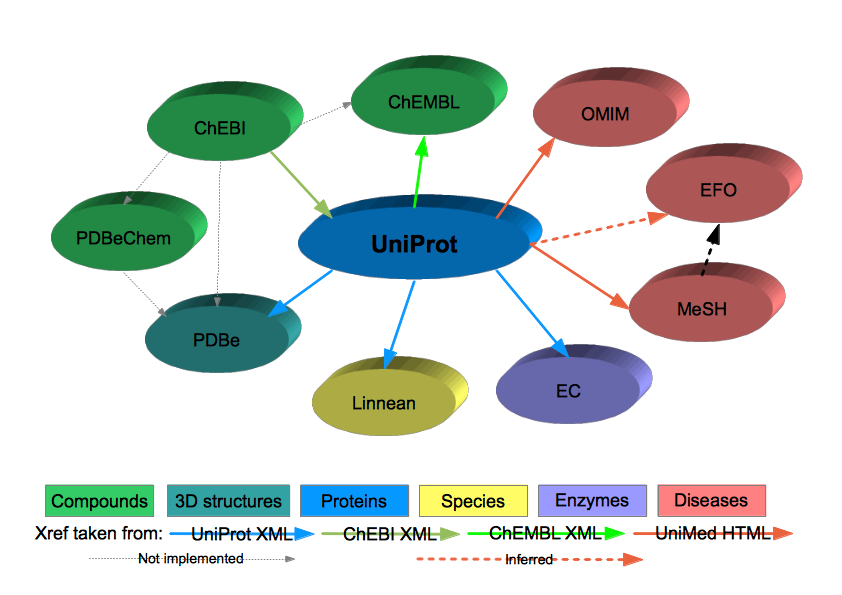
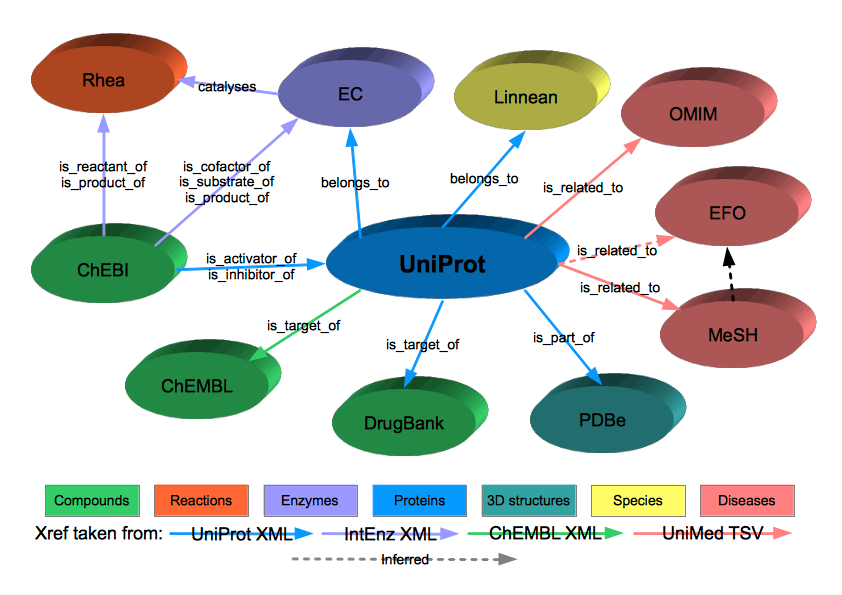
All subclasses of MegaMapper implement now the new getCompounds method. Updated graphic with current cross-references in the mega-map.

diff --git a/enzyme-portal/mega-mapper/src/main/java/uk/ac/ebi/ep/mm/MegaLuceneMapper.java b/enzyme-portal/mega-mapper/src/main/java/uk/ac/ebi/ep/mm/MegaLuceneMapper.java
@@ -4,10 +4,9 @@ import java.io.File;
 import java.io.IOException;
 import java.sql.ResultSet;
 import java.util.Collection;
-import java.util.LinkedList;
-
 import java.util.List;
 import java.util.Map;
+
 import org.apache.log4j.Logger;
 import org.apache.lucene.analysis.standard.StandardAnalyzer;
 import org.apache.lucene.document.Document;
@@ -20,11 +19,12 @@ import org.apache.lucene.search.IndexSearcher;
 import org.apache.lucene.store.Directory;
 import org.apache.lucene.store.NIOFSDirectory;
 import org.apache.lucene.util.Version;
+import uk.ac.ebi.ep.search.model.Compound;
 
 /**
  * Mega-mapper writing/reading to/from a lucene index.
  * <br>
- * <b>Use {@link MegaDbMapper} if possible, as a Lucene index does store
+ * <b>Use {@link MegaJdbcMapper} if possible, as a Lucene index does store
  * information horizontally.</b>
  * @author rafa
  */
@@ -209,6 +209,10 @@ public class MegaLuceneMapper implements MegaMapper {
 	}
 
     public List<String> getAllUniProtAccessions(MmDatabase database) {
+        throw new UnsupportedOperationException("Not supported yet.");
+    }
+
+    public Collection<Compound> getCompounds(String uniprotId) {
         throw new UnsupportedOperationException("Not supported yet.");
     }
 

diff --git a/enzyme-portal/mega-mapper/src/test/java/uk/ac/ebi/ep/mm/DummyMegaMapper.java b/enzyme-portal/mega-mapper/src/test/java/uk/ac/ebi/ep/mm/DummyMegaMapper.java
@@ -7,6 +7,8 @@ import java.util.HashSet;
 import java.util.List;
 import java.util.Map;
 
+import uk.ac.ebi.ep.search.model.Compound;
+
 /**
  * A dummy implementation of MegaMapper which stores a few entries and xrefs in
  * memory, just for JUnit tests.
@@ -144,6 +146,11 @@ public class DummyMegaMapper implements MegaMapper {
     }
 
     public List<String> getAllUniProtAccessions(MmDatabase database) {
+        throw new UnsupportedOperationException(
+                "This is just a dummy implementation");
+    }
+
+    public Collection<Compound> getCompounds(String uniprotId) {
         throw new UnsupportedOperationException(
                 "This is just a dummy implementation");
     }

diff --git a/enzyme-portal/mega-mapper/src/main/java/uk/ac/ebi/ep/mm/MegaDbMapper.java b/enzyme-portal/mega-mapper/src/main/java/uk/ac/ebi/ep/mm/MegaDbMapper.java
@@ -13,6 +13,7 @@ import org.hibernate.FlushMode;
 import org.hibernate.Query;
 import org.hibernate.Session;
 import org.hibernate.SessionFactory;
+import uk.ac.ebi.ep.search.model.Compound;
 
 /**
  * Objects of this class write the mega-map to a database managed via hibernate.
@@ -249,6 +250,10 @@ public class MegaDbMapper implements MegaMapper {
 	}
 
     public List<String> getAllUniProtAccessions(MmDatabase database) {
+        throw new UnsupportedOperationException("Not supported yet.");
+    }
+
+    public Collection<Compound> getCompounds(String uniprotId) {
         throw new UnsupportedOperationException("Not supported yet.");
     }
 
